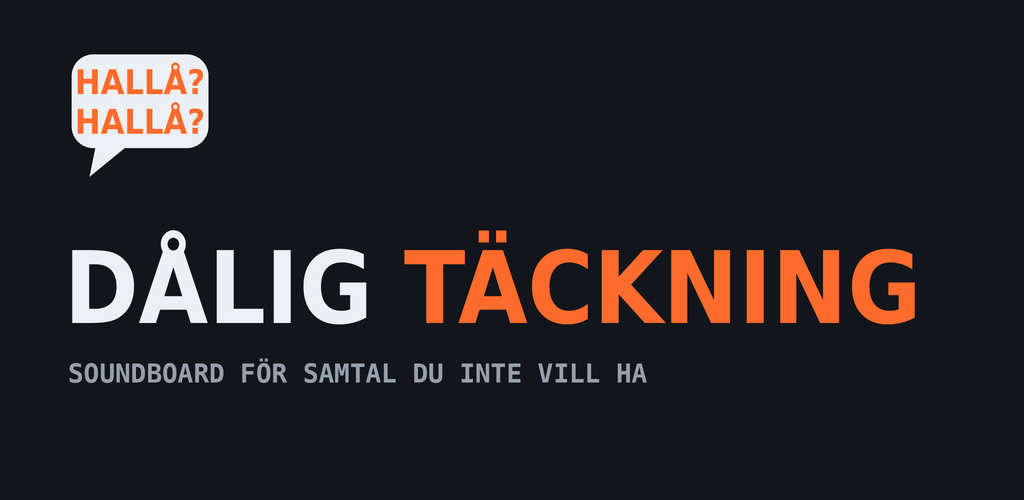
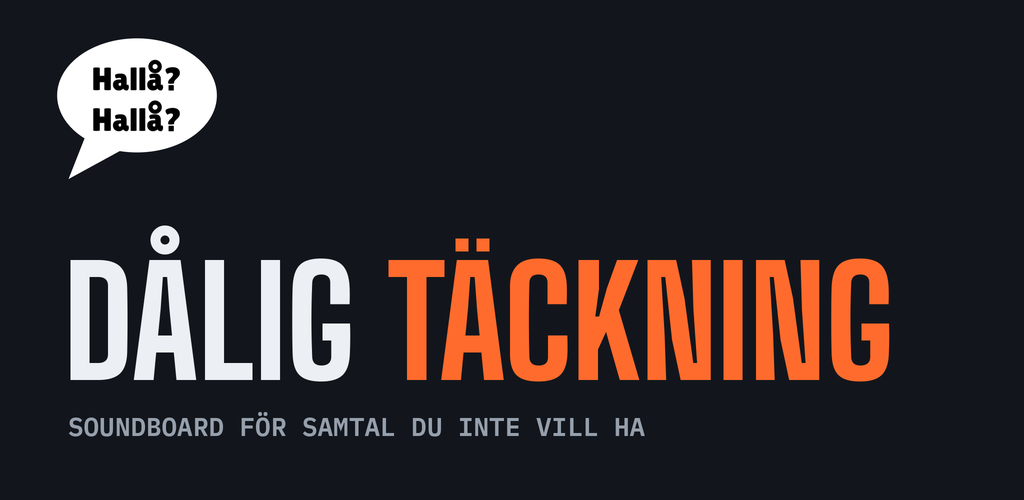
Ny appikon och funktionsgrafik som matchar appens pratbubbla
Claude-Session: https://claude.ai/code/session_01AwVcDu5zv7prsN5VKHxPky

Changed region(s): [[0.0625, 0.45, 0.9062, 0.78], [0.0312, 0.06, 0.2188, 0.36], [0.0625, 0.81, 0.625, 0.87]]

diff --git a/sw.js b/sw.js
@@ -1,5 +1,5 @@
 // Offline support: cache the app shell on install, serve cache-first, keep fonts once fetched.
-const CACHE='storsandaren-v2';
+const CACHE='storsandaren-v3';
 const SHELL=['./','./index.html','./integritet.html','./manifest.webmanifest','./icons/icon-192.png','./icons/icon-512.png'];
 self.addEventListener('install',e=>{e.waitUntil(caches.open(CACHE).then(c=>c.addAll(SHELL)).then(()=>self.skipWaiting()))});
 self.addEventListener('activate',e=>{e.waitUntil(caches.keys().then(ks=>Promise.all(ks.filter(k=>k!==CACHE).map(k=>caches.delete(k)))).then(()=>self.clients.claim()))});
